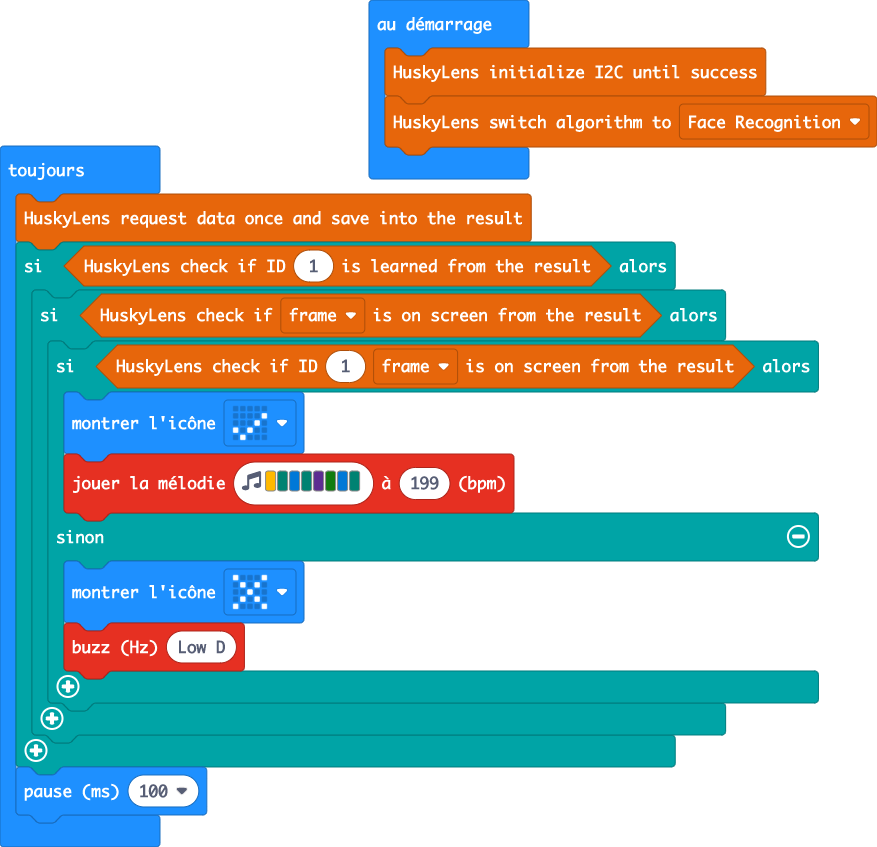
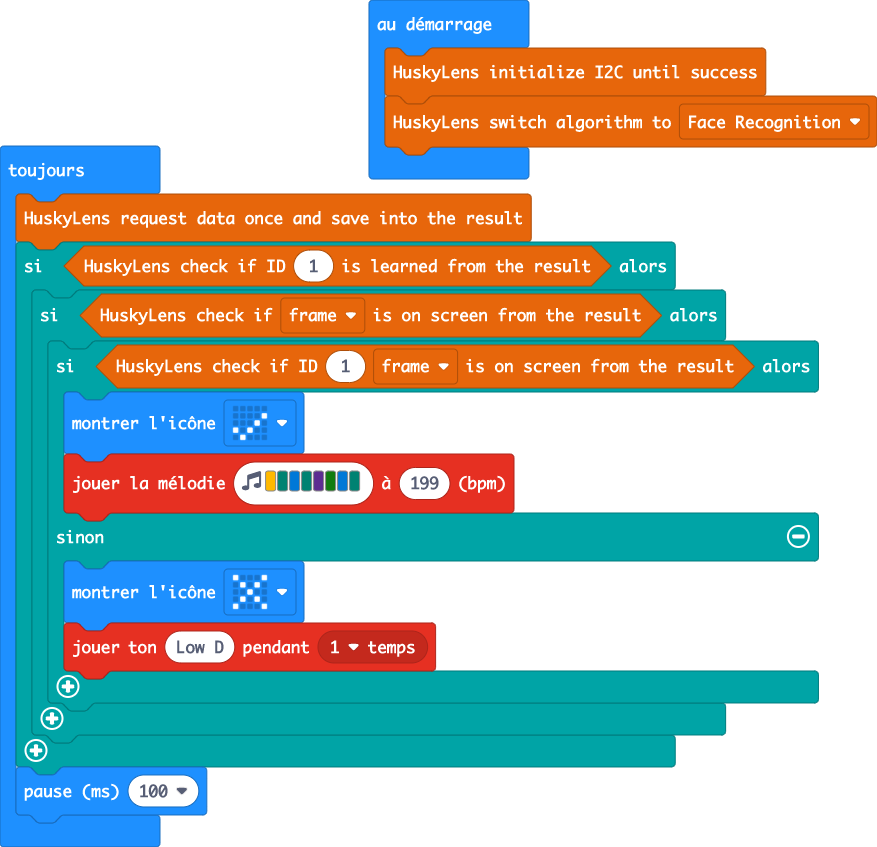
Mise à jour main.blocks, main.ts

Changed region(s): [[0.0924, 0.7367, 0.5234, 0.7981]]

diff --git a/main.ts b/main.ts
@@ -9,7 +9,7 @@ basic.forever(function () {
                 music.playMelody("A F E F D G E F ", 199)
             } else {
                 basic.showIcon(IconNames.No)
-                music.ringTone(147)
+                music.playTone(147, music.beat(BeatFraction.Whole))
             }
         }
     }
